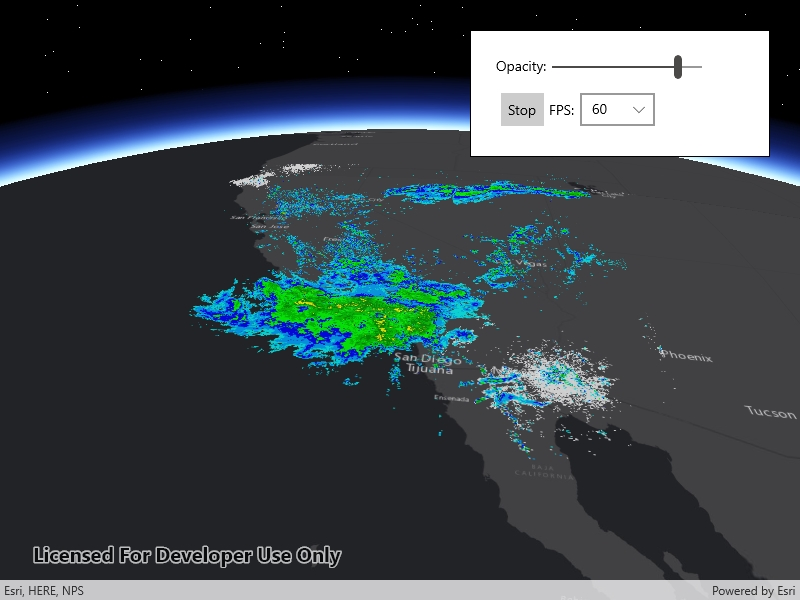
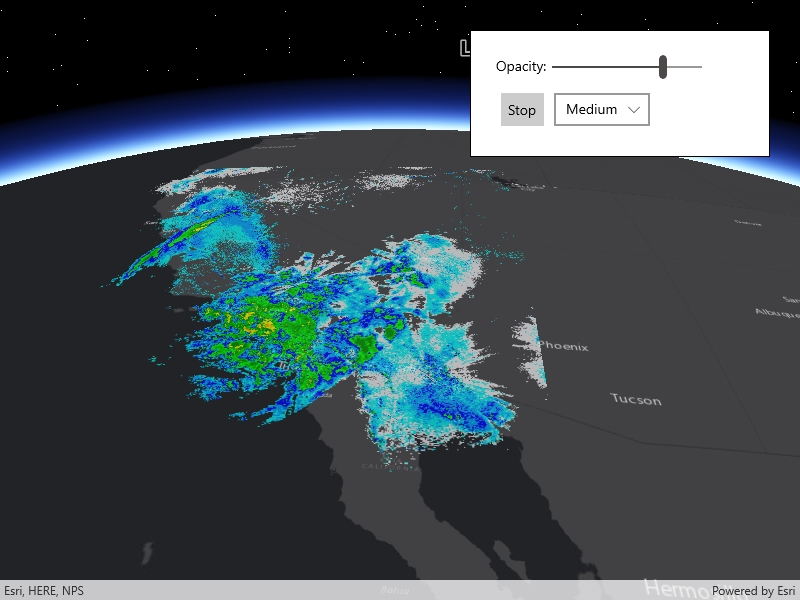
Updated design for WPF and UWP

diff --git a/src/WPF/ArcGISRuntime.WPF.Viewer/Samples/SceneView/AnimateImageOverlay/AnimateImageOverlay.xaml b/src/WPF/ArcGISRuntime.WPF.Viewer/Samples/SceneView/AnimateImageOverlay/AnimateImageOverlay.xaml
@@ -5,9 +5,9 @@
     xmlns:esri="http://schemas.esri.com/arcgis/runtime/2013">
     <Grid>
         <esri:SceneView x:Name="MySceneView" />
-        <Border Style="{StaticResource BorderStyle}" Width="260">
+        <Border Width="260" Style="{StaticResource BorderStyle}">
             <StackPanel Width="250">
-                <StackPanel Orientation="Horizontal" HorizontalAlignment="Stretch">
+                <StackPanel HorizontalAlignment="Stretch" Orientation="Horizontal">
                     <Label
                         Margin="5"
                         HorizontalAlignment="Right"
@@ -29,12 +29,12 @@
                         Padding="5"
                         Click="StartStopAnimation"
                         Content="Stop" />
-                    <Label VerticalAlignment="Center" Content="FPS:" />
+                    <Label VerticalAlignment="Center" Content="Speed:" />
                     <ComboBox
-                        Name="FPSComboBox"
+                        Name="SpeedComboBox"
                         Width="75"
                         Height="25"
-                        SelectionChanged="FPSSelected" />
+                        SelectionChanged="SpeedSelected" />
                 </StackPanel>
             </StackPanel>
         </Border>

diff --git a/src/UWP/ArcGISRuntime.UWP.Viewer/Samples/SceneView/AnimateImageOverlay/AnimateImageOverlay.xaml b/src/UWP/ArcGISRuntime.UWP.Viewer/Samples/SceneView/AnimateImageOverlay/AnimateImageOverlay.xaml
@@ -30,16 +30,11 @@
                         Padding="5"
                         Click="StartStopAnimation"
                         Content="Stop" />
-                    <TextBlock
-                        HorizontalAlignment="Right"
-                        VerticalAlignment="Center"
-                        Text="FPS:" />
                     <ComboBox
-                        Name="FPSComboBox"
-                        Width="75"
+                        Name="SpeedComboBox"
                         Margin="5"
                         VerticalAlignment="Stretch"
-                        SelectionChanged="FPSSelected" />
+                        SelectionChanged="SpeedSelected" />
                 </StackPanel>
             </StackPanel>
         </Border>

diff --git a/src/UWP/ArcGISRuntime.UWP.Viewer/Samples/SceneView/AnimateImageOverlay/AnimateImageOverlay.xaml.cs b/src/UWP/ArcGISRuntime.UWP.Viewer/Samples/SceneView/AnimateImageOverlay/AnimateImageOverlay.xaml.cs
@@ -93,9 +93,9 @@ namespace ArcGISRuntime.UWP.Samples.AnimateImageOverlay
             _timer = new Timer(AnimateOverlay);
             _timer.Change(0, 1000 / 15);
 
-            // Populate the combobox for selecting FPS.
-            FPSComboBox.ItemsSource = new int[] { 15, 30, 60 };
-            FPSComboBox.SelectedIndex = 0;
+            // Populate the combobox for selecting speed.
+            SpeedComboBox.ItemsSource = new string[] { "Slow", "Medium", "Fast" };
+            SpeedComboBox.SelectedIndex = 0;
 
             // Set an event to stop the animation when the sample is unloaded.
             Unloaded += (s, e) =>
@@ -132,10 +132,25 @@ namespace ArcGISRuntime.UWP.Samples.AnimateImageOverlay
             if (_imageOverlay != null) _imageOverlay.Opacity = e.NewValue / 100;
         }
 
-        private void FPSSelected(object sender, SelectionChangedEventArgs e)
+        private void SpeedSelected(object sender, SelectionChangedEventArgs e)
         {
-            // Calculate the new time interval using the selected frames per second.
-            int newInterval = 1000 / (int)FPSComboBox.SelectedItem;
+            int newInterval = 0;
+            switch (SpeedComboBox.SelectedItem)
+            {
+                case "Slow":
+                    newInterval = 1000 / 15;
+                    break;
+
+                case "Medium":
+                    newInterval = 1000 / 30;
+                    break;
+
+                case "Fast":
+                    newInterval = 1000 / 60;
+                    break;
+            }
+
+            // Calculate the new time interval using the selected speed.
             _timer?.Change(0, newInterval);
         }
     }

diff --git a/src/WPF/ArcGISRuntime.WPF.Viewer/Samples/SceneView/AnimateImageOverlay/AnimateImageOverlay.xaml.cs b/src/WPF/ArcGISRuntime.WPF.Viewer/Samples/SceneView/AnimateImageOverlay/AnimateImageOverlay.xaml.cs
@@ -85,9 +85,9 @@ namespace ArcGISRuntime.WPF.Samples.AnimateImageOverlay
             _timer = new Timer(AnimateOverlay);
             _timer.Change(0, 1000 / 15);
 
-            // Populate the combobox for selecting FPS.
-            FPSComboBox.ItemsSource = new int[] { 15, 30, 60 };
-            FPSComboBox.SelectedIndex = 0;
+            // Populate the combobox for selecting speed.
+            SpeedComboBox.ItemsSource = new string[] { "Slow", "Medium", "Fast" };
+            SpeedComboBox.SelectedIndex = 0;
 
             // Set an event to stop the animation when the sample is unloaded.
             Unloaded += (s, e) =>
@@ -124,10 +124,25 @@ namespace ArcGISRuntime.WPF.Samples.AnimateImageOverlay
             if (_imageOverlay != null) _imageOverlay.Opacity = e.NewValue;
         }
 
-        private void FPSSelected(object sender, SelectionChangedEventArgs e)
+        private void SpeedSelected(object sender, SelectionChangedEventArgs e)
         {
-            // Calculate the new time interval using the selected frames per second.
-            int newInterval = 1000 / (int)FPSComboBox.SelectedItem;
+            int newInterval = 0;
+            switch (SpeedComboBox.SelectedItem)
+            {
+                case "Slow":
+                    newInterval = 1000 / 15;
+                    break;
+
+                case "Medium":
+                    newInterval = 1000 / 30;
+                    break;
+
+                case "Fast":
+                    newInterval = 1000 / 60;
+                    break;
+            }
+
+            // Calculate the new time interval using the selected speed.
             _timer?.Change(0, newInterval);
         }
     }
